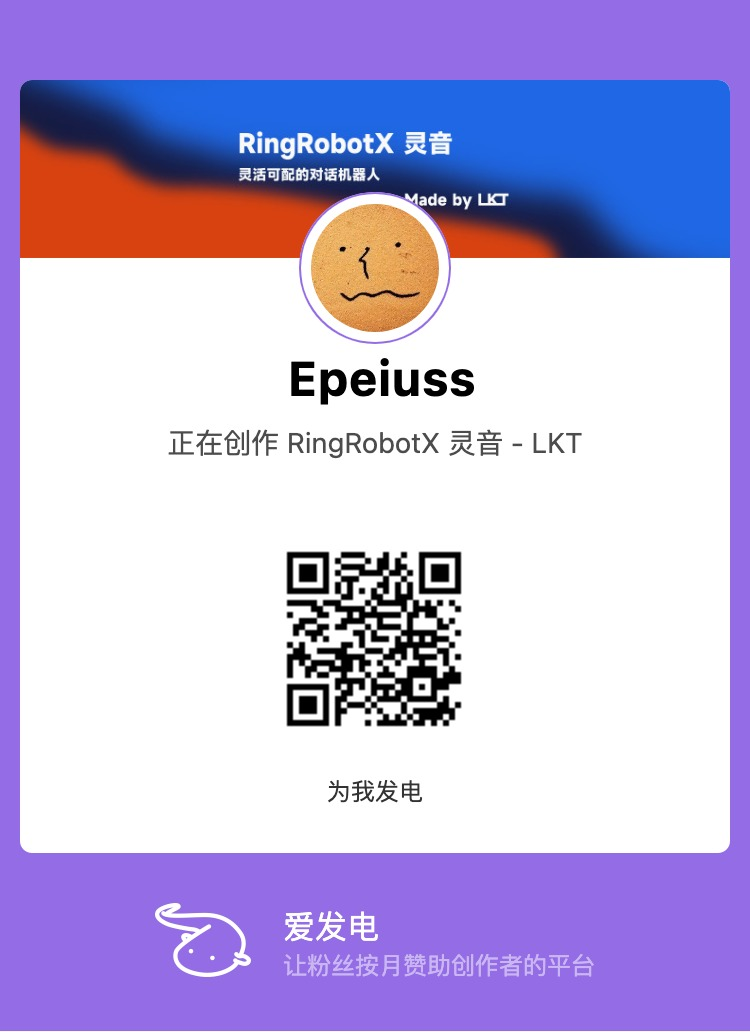
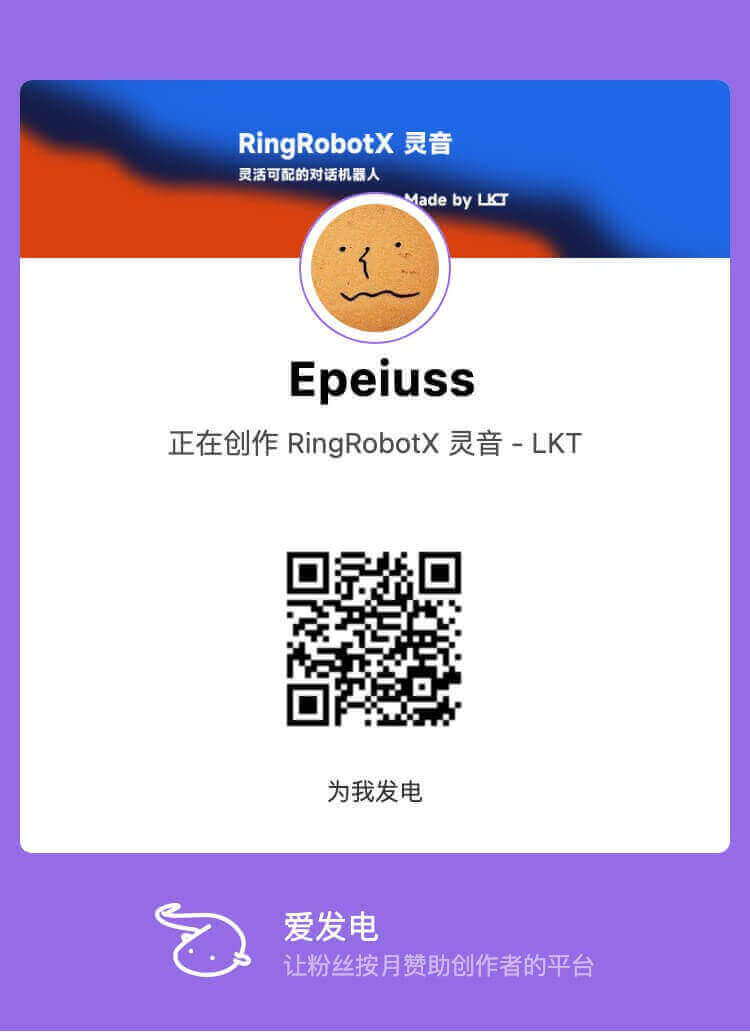
docs: 压缩图片大小，修改图片尺寸

diff --git a/docs/README.md b/docs/README.md
@@ -162,9 +162,9 @@ python3 ring.py
 
 如果你的开发板在此项目中报错，那么我将会尽最大努力帮你解决问题
 
-这个项目花费了我们很多的精力和时间，如果您觉得我们的开源软件对你有所帮助，可以向 LingKongTeam 的创始人 Epeiuss 和整个团队多整几袋白象,戳这里 -> [http://afdian.net/@epeiuss](http://afdian.net/@epeiuss)
+这个项目花费了我们很多的精力和时间，如果您觉得我们的开源软件对你有所帮助，可以戳这里支持我们 -> [http://afdian.net/@epeiuss](http://afdian.net/@epeiuss)
 
 
 <p align="center">
-    <img src="photo/afd.png" alt="爱发电二维码">
+    <img src="photo/afd.png" alt="爱发电二维码" width="200" height="275.2">
 </p>

diff --git a/README.md b/README.md
@@ -166,5 +166,5 @@ python3 ring.py
 
 
 <p align="center">
-    <img src="docs/photo/afd.png" alt="爱发电二维码">
+    <img src="docs/photo/afd.png" alt="爱发电二维码" width="200" height="275.2">
 </p>
